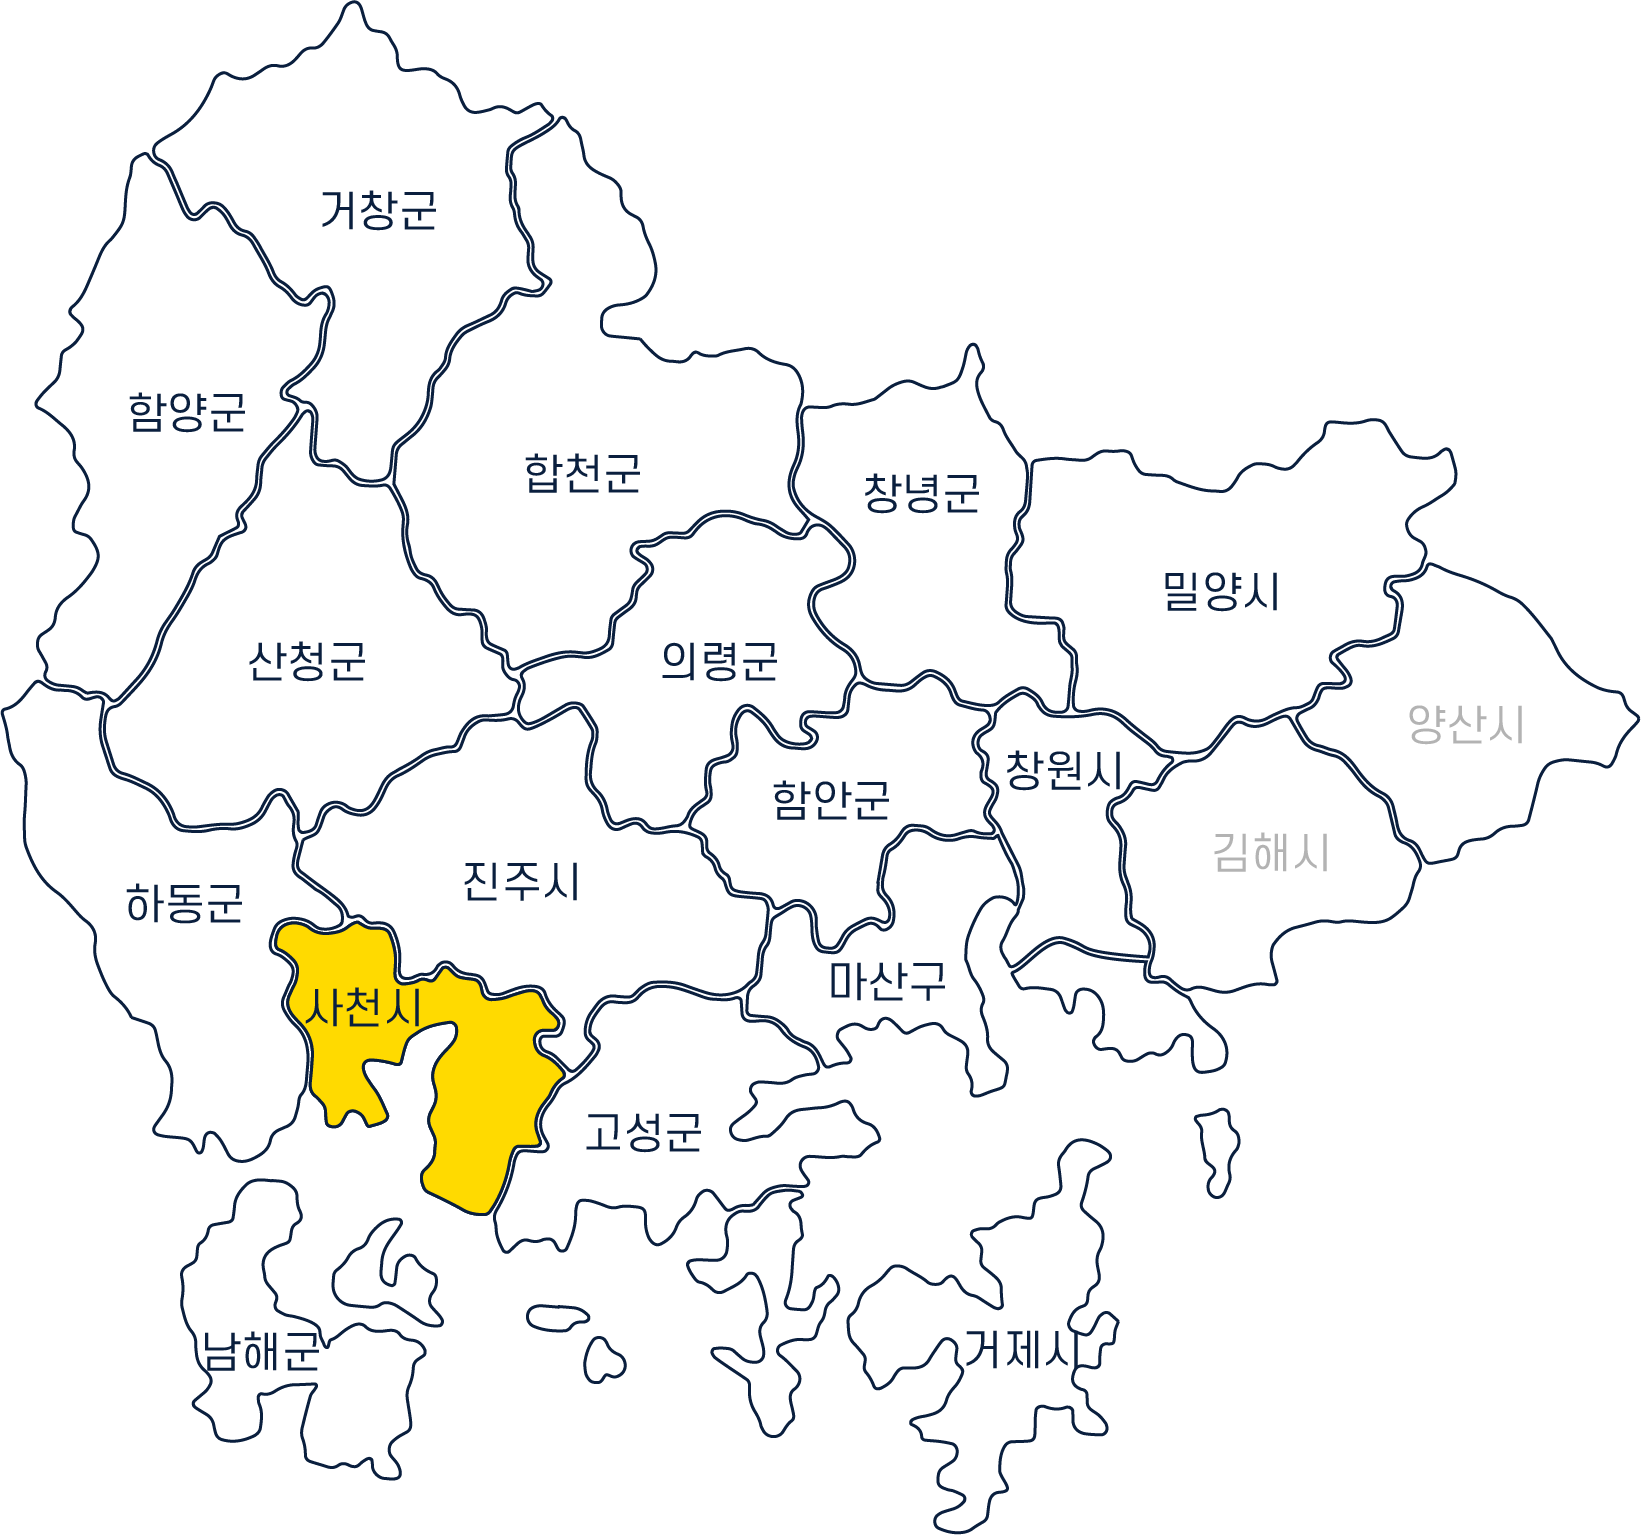
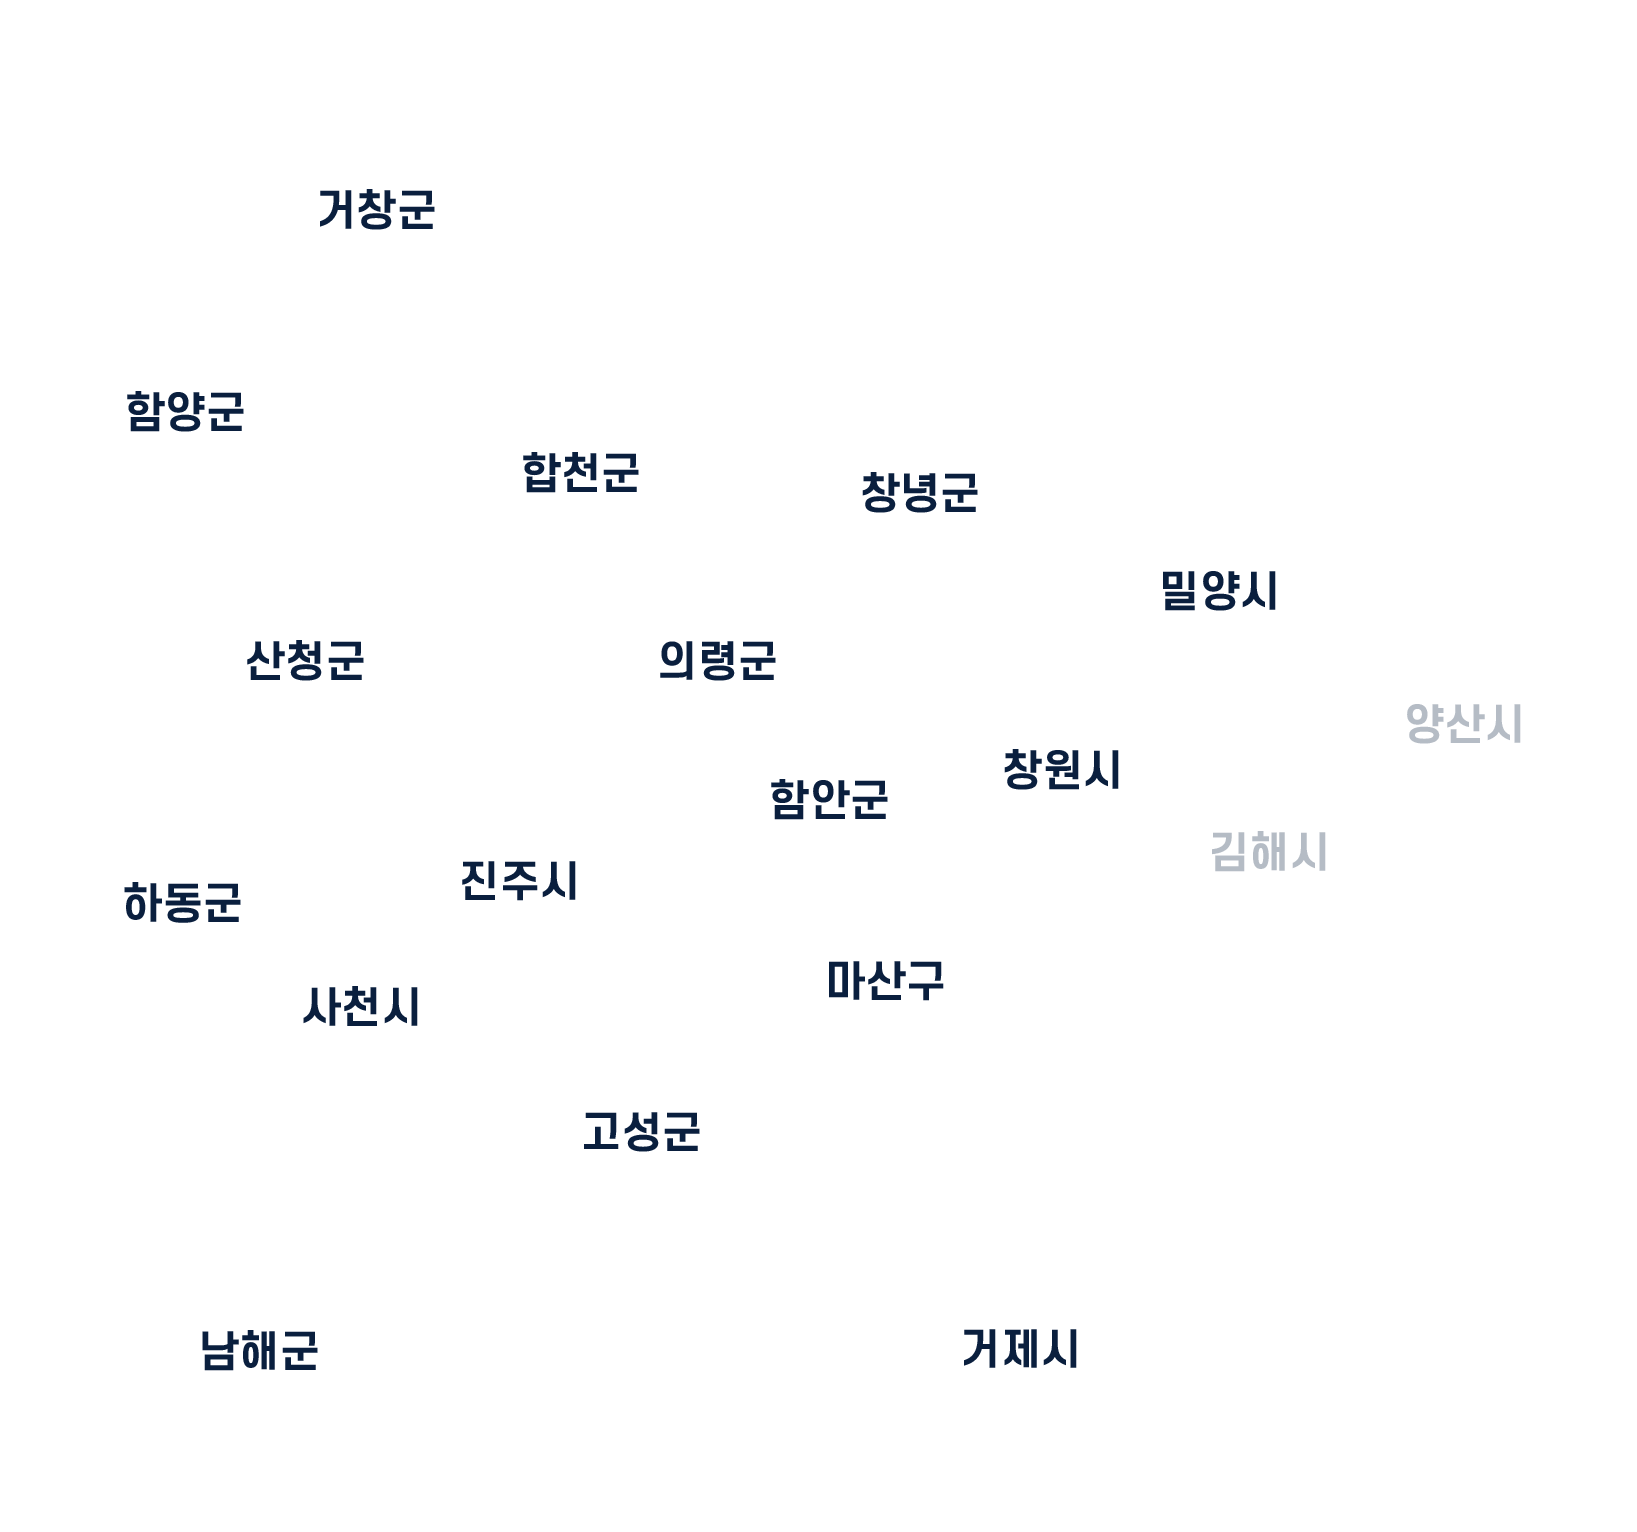
- 관할사업소 맵 디자인 수정

diff --git a/office.html b/office.html
@@ -97,7 +97,6 @@
                 text-align: center;
                 margin-top: 3rem;
                 font-family: 'S-CoreLight', sans-serif;
-                color: #ffda00;
             }
 
             .office-introduce .basic-info {
@@ -166,6 +165,39 @@
 
             #close-modal-btn {
 
+            }
+
+            body{
+                position: relative;
+            }
+
+            body::before{
+                left: 0;
+                width: 0;
+                height: 0;
+                position: absolute;
+                opacity: 0;
+                content:"";
+                background:
+                        url("./img/hq_map/0.png")
+                        ,url("./img/hq_map/1.png")
+                        ,url("./img/hq_map/2.png")
+                        ,url("./img/hq_map/3.png")
+                        ,url("./img/hq_map/4.png")
+                        ,url("./img/hq_map/5.png")
+                        ,url("./img/hq_map/6.png")
+                        ,url("./img/hq_map/7.png")
+                        ,url("./img/hq_map/8.png")
+                        ,url("./img/hq_map/9.png")
+                        ,url("./img/hq_map/10.png")
+                        ,url("./img/hq_map/11.png")
+                        ,url("./img/hq_map/12.png")
+                        ,url("./img/hq_map/13.png")
+                        ,url("./img/hq_map/14.png")
+                        ,url("./img/hq_map/15.png")
+                        ,url("./img/hq_map/16.png")
+                        ,url("./img/hq_map/17.png")
+                        ,url("./img/hq_map/bg.png");
             }
         </style>
         <div class="office-introduce">
